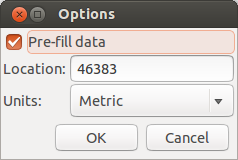
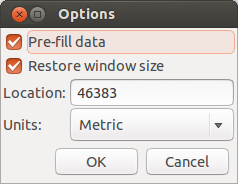
Updated image in help.

diff --git a/resources/dialogs/options_dialog.py b/resources/dialogs/options_dialog.py
@@ -59,7 +59,8 @@ class OptionsDialog(Gtk.Dialog):
         # Show the dialog. The response gets handled by the function
         # in the main class.
         self.show_all()
-        
+    
+    
     def filter_numbers(self, event):
         """Filters non-numbers out of the entry."""
         

diff --git a/weatherlog.py b/weatherlog.py
@@ -152,6 +152,8 @@ except IOError:
     last_height = 500
 
 # If the user doesn't want to restore the window size, set the size to the defaults.
+if not "restore" in config:
+    config["restore"] = True
 if not config["restore"]:
     last_width = 900
     last_height = 500
